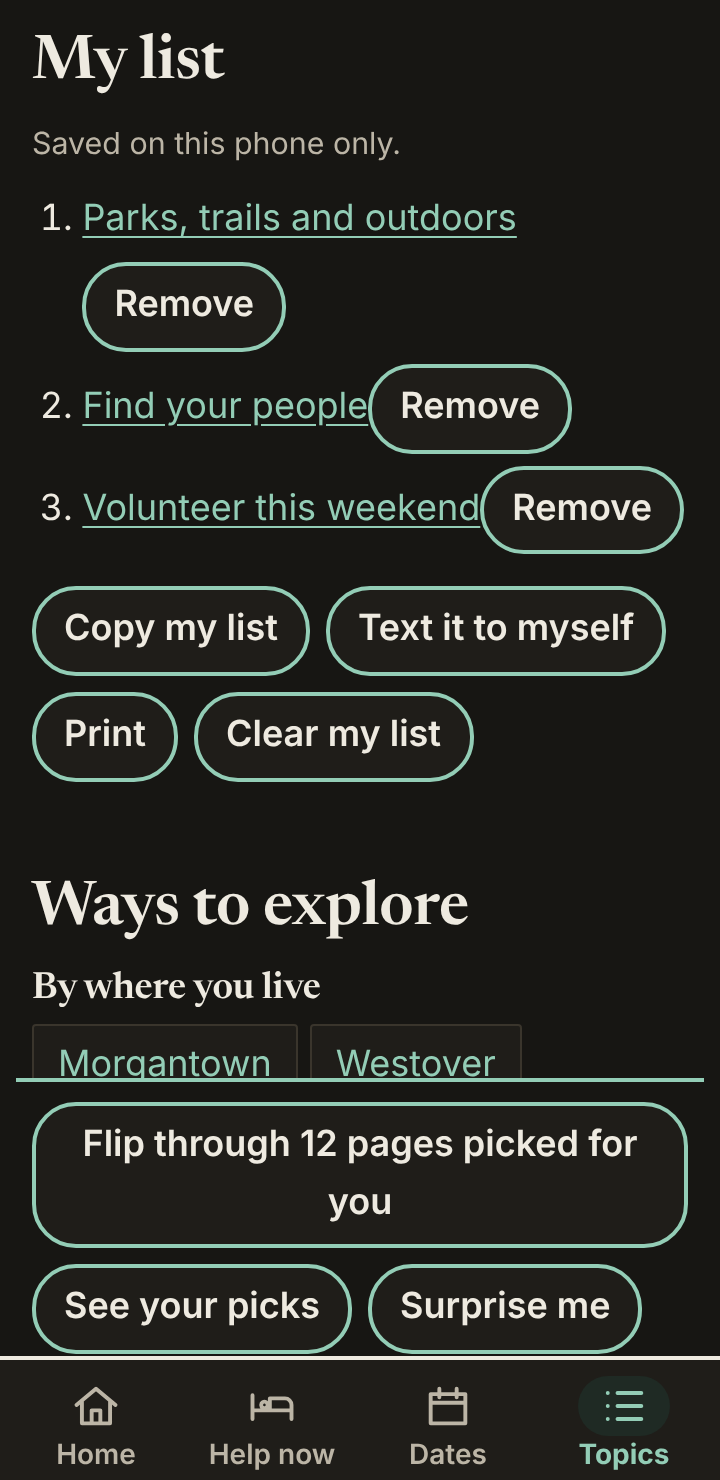
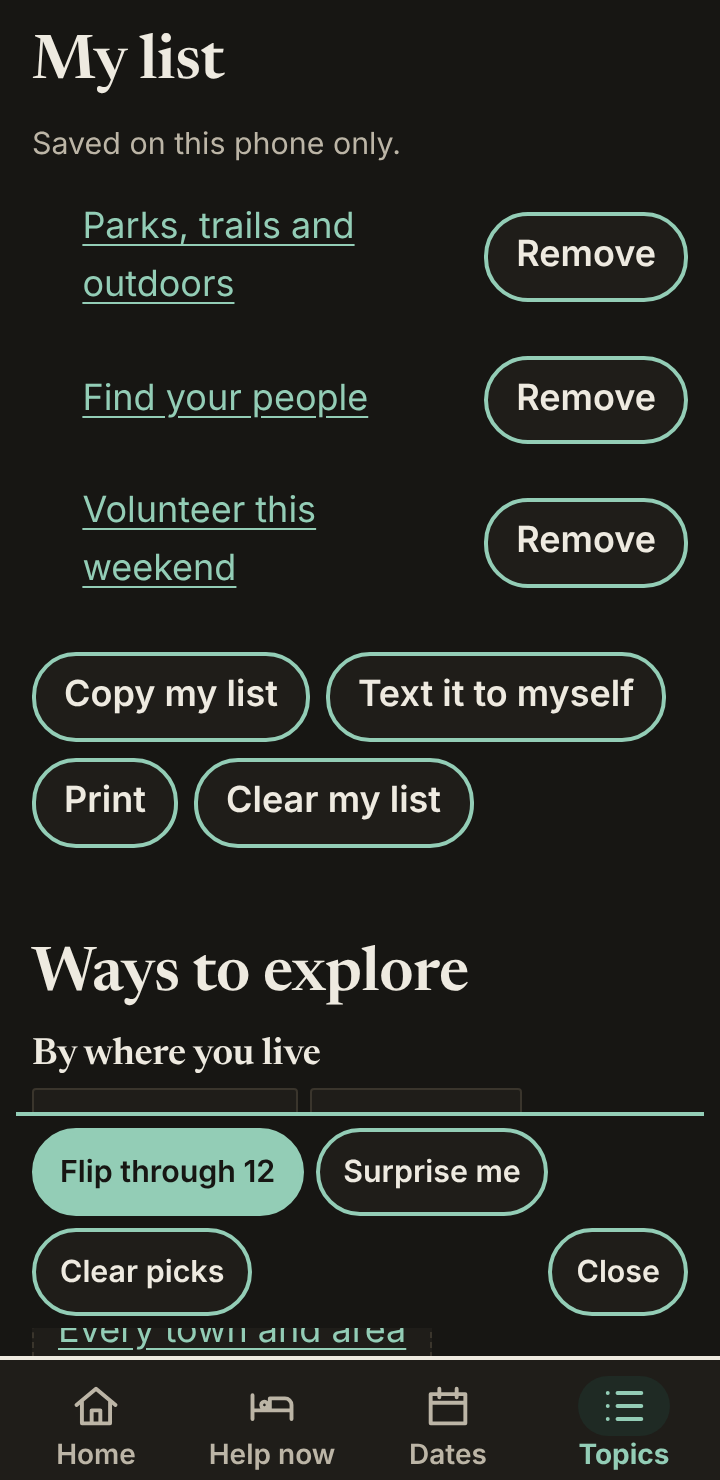
Topics explorer checks: motion switch, no-script and 360 px phone tests, screenshots (#2030)
Claude-Session: https://claude.ai/code/session_01S2PP8mnqAPj76vndSAVRmm

diff --git a/docs/build-log/2026-11-15-2100-topics-explorer-checks.md b/docs/build-log/2026-11-15-2100-topics-explorer-checks.md
@@ -1,0 +1,29 @@
+# Topics explorer: motion off, no script and phone checks
+
+**Issue:** #2030 (the last step of the Topics explorer build, #2025)
+
+One pass that proves the explorer keeps every promise the plain /topics/ page made.
+
+**Changed:**
+
+- The shared "Turn off motion" switch (`MotionSwitch.astro`) now sits under the chips' help line. It is the same setting as every scroll story on the site, and it stops Flip through's fly-off, drag tilt and card peek. When the phone already asks for reduced motion, the button hides and a note says why.
+- Fixes found by taking 360 px screenshots (made in the #2027 to #2029 branches, so each PR is right on its own):
+  - The chips lost their look once the script turned them into buttons, because Astro's scoped styles do not reach elements a script makes. A picked chip did not look picked. Now fixed, with a test.
+  - The picks bar sat under the phone's tab bar. It now sits just above it (`--tabbar`), and its Flip through button is short ("Flip through 12", with the full name for screen readers), so the bar is one or two rows.
+  - My list's Remove buttons wrapped under their page names. Each page and its Remove button now share a row.
+- `docs/accessibility.md`: a screen reader item for the explorer under "Needs a person".
+
+**New e2e tests** (`site/e2e/topics-explorer.test.mjs`, 17 for the explorer in all):
+
+- Reduced motion on the device: no switch, a note, no peek, the next card at once, no transition.
+- "Turn off motion" on /topics/: stays off after a reload, no peek, no fly-off wait.
+- Scripts off at 360 px: no buttons in the page, no empty boxes (Picked for you, My list, the bar and the deck stay hidden), Help now and the A to Z show, all 20 chip links answer, no sideways scroll.
+- 360 px phone at 640 and 560 px tall (address bar hidden and showing): no sideways scroll with picks, My list or the deck, and the deck and its Save, Skip, Open page and Close fit on screen.
+
+**Screenshots** at 360 px, light and dark, are in `docs/design/looks/topics-explorer/`: the chips with two picked, Picked for you, My list, and the deck.
+
+**Weight:** /topics/ is 82.7 KB (budget 150 KB). Before the explorer it was 70.2 KB, so the whole explorer adds 12.5 KB, under the 30 KB extras budget.
+
+**Still needs a person:** a VoiceOver pass on an iPhone, and the same checks by hand on a real iPhone (Safari) and Android phone (Chrome), including Back keeping your place (#1369).
+
+Cost: $0.

diff --git a/docs/accessibility.md b/docs/accessibility.md
@@ -60,6 +60,7 @@ A machine cannot tell how a page sounds or feels. These need a person with the r
    - Trend charts on `/how-we-are-doing/`: is the chart's name read, and can you reach the "See every number" table?
    - Checklists (for example `/drivers-license/`): is each box's ticked state read, and does "Clear ticks" say what it did?
    - `/stay-tonight/`: is the "Danger or crisis" region read first, and does "Leave this page" make sense out loud?
+   - The Topics explorer on `/topics/` (#2030): do the chips read as toggle buttons with "pressed", does "12 pages picked for you" get read, does Flip through read "Card 4 of 12" and keep focus inside until Close, and does each Remove in My list say which page it removes?
 2. **Real text size settings.** The checks above make text bigger with CSS. Also try iPhone Larger Text, Android font size at the largest, and the browser's own text size setting, on the home page, the Vote page and a door page.
 3. **Windows high contrast (forced colors).** Do focus rings, buttons, the crisis strip and chart lines still show?
 4. **Voice control.** With iOS Voice Control or Dragon, can you say what a button says ("Tap Call 988") and have it work?
